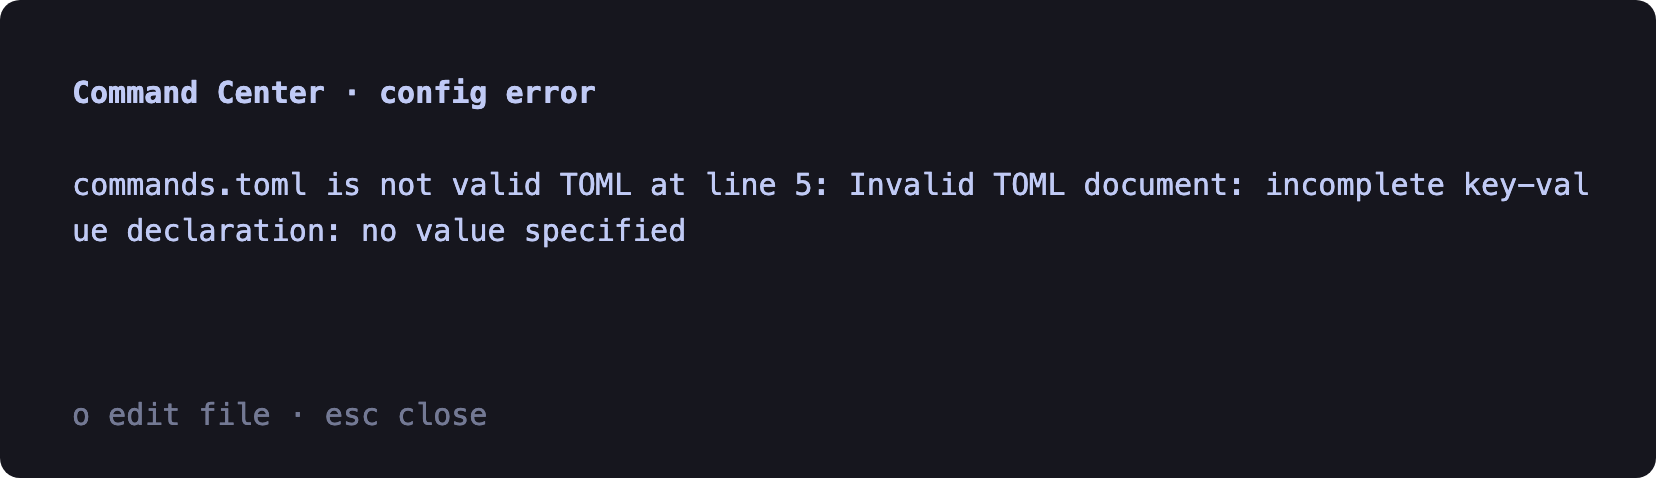
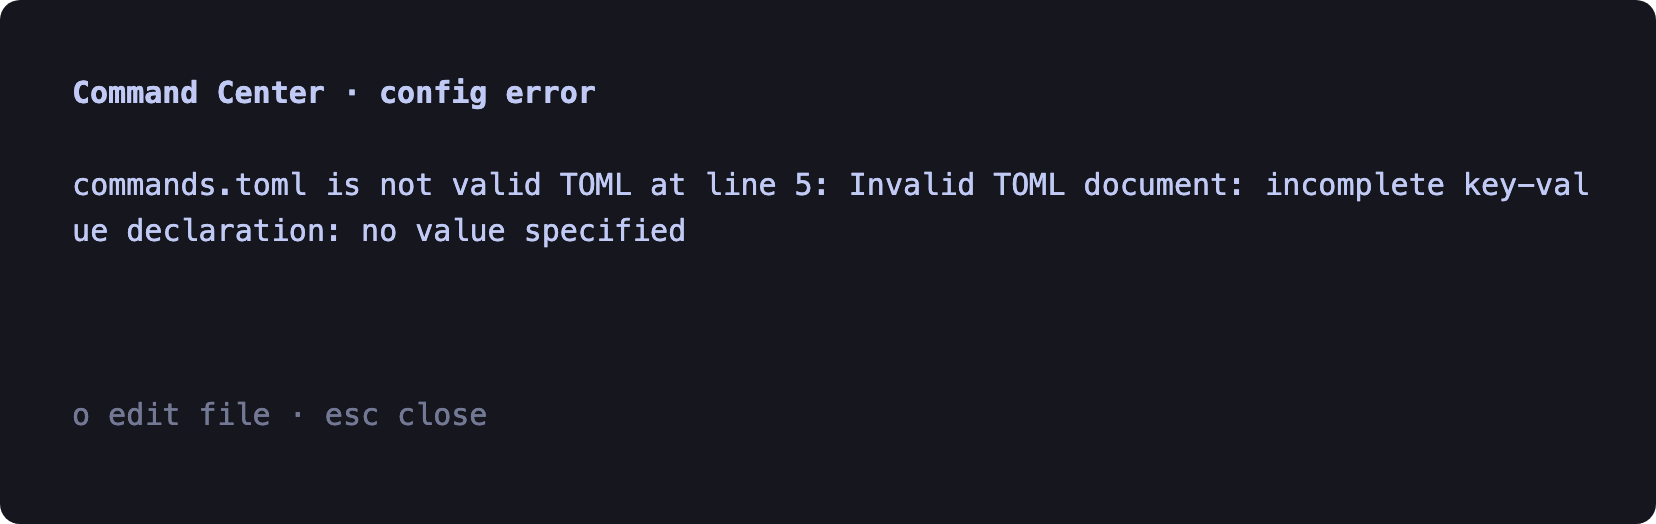
docs: show the caret in the screenshots and explain it
The form screenshot now shows the caret sitting after the typed command, which is
the whole point of the change it illustrates. tools/screenshots.py reads the
cursor address out of the captured output and draws a bar there — it only draws
one where the popup actually addressed one, so the picture cannot claim an
affordance the code does not provide.

Both READMEs now say that a caret marks the field being typed into and that Type
and Cwd have none on purpose.

Changed region(s): [[0.0308, 0.3222, 0.9547, 0.5272], [0.0308, 0.7615, 0.308, 0.9079], [0.0308, 0.1464, 0.3696, 0.2343]]

diff --git a/tools/screenshots.py b/tools/screenshots.py
@@ -166,7 +166,8 @@ BROKEN = 'schema_version = 1\neditor = ["code"]\n\n[[commands]]\nlabel = \n'
 # terminal height, not crops of a taller one.
 SHOTS = [
     ('popup-list', DEMO, [], 18, 'the command list'),
-    ('popup-form', DEMO, ['a', '배포 스크립트', '\t\t', './scripts/deploy.sh'], 13, 'adding a command'),
+    ('popup-form', DEMO, ['a', '배포 스크립트', '\t\t', './scripts/deploy.sh'], 13,
+     'adding a command, caret on the Command field'),
     ('popup-error', BROKEN, [], 10, 'a config file with a typo'),
 ]
 
@@ -190,6 +191,12 @@ PAD_Y = 16.0
 RADIUS = 10.0
 
 SGR = re.compile(r'\x1b\[([0-9;]*)m')
+# The popup parks the real terminal cursor on a focused text field by emitting an
+# explicit row;column address. That is the only place it does so, which makes the
+# escape itself the signal that a caret belongs in the picture.
+CURSOR_AT = re.compile(r'\x1b\[(\d+);(\d+)H')
+CURSOR_NOISE = re.compile(r'\x1b\[\?25[hl]|\x1b\[[0-9]* q|\x1b\[[0-9]+;[0-9]+H')
+CURSOR_COLOR = CYAN
 WIDE_RANGES = (
     (0x1100, 0x115f), (0x2329, 0x232a), (0x2e80, 0xa4cf), (0xac00, 0xd7a3),
     (0xf900, 0xfaff), (0xfe10, 0xfe19), (0xfe30, 0xfe6f), (0xff00, 0xff60),
@@ -239,6 +246,12 @@ def runs(line):
 
 
 def render(frame, cols=88):
+    caret = None
+    addressed = CURSOR_AT.findall(frame)
+    if addressed:
+        row, col = addressed[-1]
+        caret = (int(row) - 1, int(col) - 1)  # the terminal counts from one
+    frame = CURSOR_NOISE.sub('', frame)
     lines = frame.split('\n')
     rows = len(lines)
     width = cols * CELL_W + PAD_X * 2
@@ -266,6 +279,13 @@ def render(frame, cols=88):
                 attrs.append('xml:space="preserve"')
                 parts.append(f'<text {" ".join(attrs)}>{html.escape(text)}</text>')
             col += display_width(text)
+    if caret is not None:
+        crow, ccol = caret
+        x = PAD_X + ccol * CELL_W
+        y = PAD_Y + crow * LINE_H + 2.0
+        parts.append(
+            f'<rect x="{x:.2f}" y="{y:.2f}" width="2.2" height="{FONT_SIZE * 1.2:.1f}" '
+            f'rx="1" fill="{CURSOR_COLOR}"/>')
     parts.append('</svg>')
     return '\n'.join(parts)
 

diff --git a/docs/superpowers/plans/2026-07-26-herdr-command-center.md b/docs/superpowers/plans/2026-07-26-herdr-command-center.md
@@ -6987,3 +6987,50 @@ Expected: all three greps print `1` — the comment survived, the commented-out
 block survived, and the edit landed.
 
 ---
+
+---
+
+## Task 17: Show a caret where typing works
+
+Done directly rather than through a subagent, and recorded here because it
+changes files Tasks 7 and 10 created — their blocks no longer match disk for
+`src/render.mjs`, `bin/popup.mjs`, `test/render.test.mjs`, `test/popup.test.mjs`
+and `test/helpers/fake-tty.mjs`.
+
+**The problem:** in the add/edit form, a text field could be typed into
+immediately, but nothing said so. The terminal cursor was left wherever the last
+write happened to end — parked at the end of the footer — so the form looked
+inert and read as though it needed a key to unlock editing first.
+
+**The fix:** park the *real* terminal cursor on the edit point of a focused text
+field, as a blinking bar, and hide it everywhere nothing is editable. A real
+cursor is the right answer rather than a drawn glyph: it blinks natively at the
+terminal's own rate with no redraw loop, it cannot drift out of alignment with
+the text, and it is what every other text field the user has ever used does.
+
+- `src/render.mjs` gains `textCursor(view, size) -> { row, column } | null`,
+  which returns a position only in `form` mode on a field outside `CHOICE_FIELDS`,
+  accounts for the display width of what has been typed (so Korean advances two
+  cells per syllable), and returns `null` when the field would fall outside the
+  frame. `FORM_FOOTER` also gained `type to edit`, so the affordance is stated in
+  words as well as shown.
+- `bin/popup.mjs` hides the cursor before each repaint so it cannot skate across
+  the redraw, then addresses it and requests a blinking bar (`DECSCUSR 5`) when
+  `textCursor` returns a position. It restores the default shape and visibility in
+  its `finally`, so a popup that dies mid-edit cannot leave the terminal with an
+  invisible cursor.
+- `CHOICE_FIELDS` deliberately get no caret: they are changed with the arrow keys,
+  and a caret there would promise typing that does nothing.
+
+**Test fallout worth knowing about:** adding a write to the `finally` block broke
+five existing popup tests that had been treating "the last write" as "the last
+painted frame". `test/helpers/fake-tty.mjs` now exposes `renderedFrames` and
+redefines `lastFrame` to mean the last frame that actually painted, and the two
+colour tests now assert on SGR codes instead of slicing a fixed byte offset off
+the front of the frame. Those assertions were relying on incidental details, and
+the change is what exposed it.
+
+**Screenshots:** `tools/screenshots.py` now reads the cursor address out of the
+captured output and draws the caret, so `docs/popup-form.png` shows the affordance
+this task adds. The generator only draws a caret where the popup actually
+addressed one, which keeps the picture honest.

diff --git a/README.ko.md b/README.ko.md
@@ -83,7 +83,11 @@ herdr server reload-config
 접근합니다.
 
 팝업을 벗어나지 않고 `a`로 바로 추가할 수 있습니다. `Tab`으로 필드를 옮기고,
-`←`/`→`로 `Type`과 `Cwd`를 바꾸고, `Enter`를 누르면 `commands.toml`에 기록됩니다:
+`←`/`→`로 `Type`과 `Cwd`를 바꾸고, `Enter`를 누르면 `commands.toml`에 기록됩니다.
+
+깜빡이는 커서가 지금 타이핑되는 필드를 알려주므로 짐작할 필요가 없습니다 — 그냥
+치면 됩니다. `Type`과 `Cwd`에는 일부러 커서를 두지 않았습니다. 방향키로 바꾸는
+필드인데 커서가 있으면 되지도 않는 타이핑을 약속하는 셈이니까요.
 
 ![팝업에서 커맨드를 추가하는 화면, Command 필드에 포커스가 있음](docs/popup-form.png)
 

diff --git a/README.md b/README.md
@@ -86,7 +86,11 @@ file, no matter how far the list has scrolled. Commands past the ninth have no
 badge and are reached with the arrow keys.
 
 Press `a` to add one without leaving the popup. `Tab` moves between fields,
-`←`/`→` cycle `Type` and `Cwd`, and `Enter` writes it to `commands.toml`:
+`←`/`→` cycle `Type` and `Cwd`, and `Enter` writes it to `commands.toml`.
+
+A blinking caret marks the field you are typing into, so there is nothing to
+guess: just type. `Type` and `Cwd` deliberately have no caret — they are changed
+with the arrow keys, and a caret there would promise typing that does nothing.
 
 ![Adding a command in the popup, with the Command field focused](docs/popup-form.png)
 
